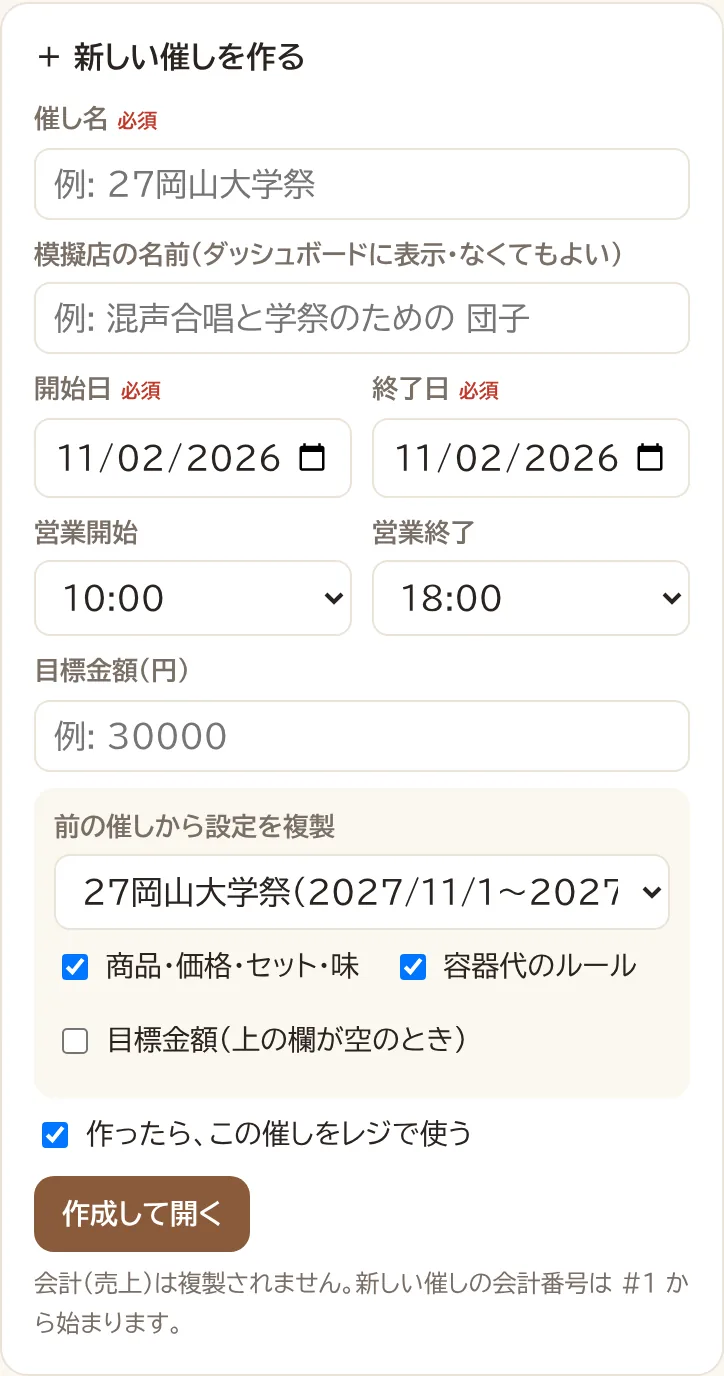
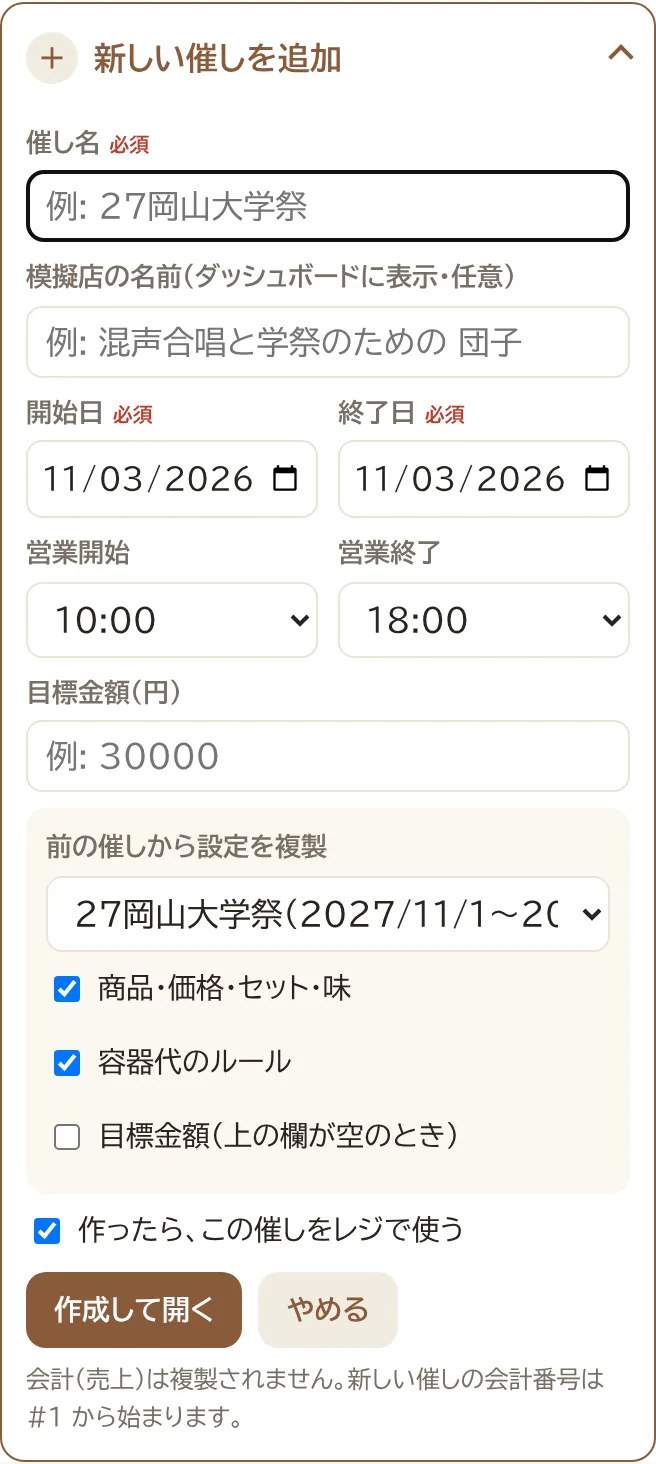
管理画面：「新しい催しを追加」を催しの一覧のカードの中の行にし、押すと入力欄が開くように
- 別のカードだった「新しい催しを作る」を、催しの一覧のいちばん下の行「＋ 新しい催しを追加」に
- 押すとその下に入力欄（催し名・期間・営業時間・目標・複製）が開き、「やめる」で閉じる。催しがまだないときは最初から開く
- 自動更新（30 秒ごと）で開いた状態や入力が消えないことを確認
- スマホで日付の年が切れないよう日付の欄を調整、ラベルを短く
- ヘルプの画像と説明、README を更新

Claude-Session: https://claude.ai/code/session_01UZ9qf5JxoP9bu9V8PunLta

diff --git a/public/master.html b/public/master.html
@@ -73,6 +73,15 @@
   .pj-wide { grid-column: 1 / -1; }
   .pj-grid input, .pj-grid select, .pj-line input, .pj-line select { padding: 9px; font-size: 16px; border: 1px solid var(--line); border-radius: 8px; color: var(--ink); background: #fff; font-weight: 400; width: 100%; min-width: 0; }
   .req { font-size: 10px; color: var(--red); font-weight: 700; }
+  .pj-add { border: 1.5px dashed var(--line); border-radius: 12px; margin-bottom: 10px; }
+  .pj-add.open { border-style: solid; border-color: var(--brown); }
+  .pj-add-row { display: flex; align-items: center; gap: 8px; width: 100%; background: none; padding: 14px 12px; font-size: 16px; font-weight: 700; color: var(--brown); text-align: left; }
+  .pj-add-row .plus { display: inline-grid; place-items: center; width: 26px; height: 26px; border-radius: 50%; background: var(--soft); font-size: 16px; }
+  .pj-add-row .chev { margin-left: auto; width: 9px; height: 9px; border-right: 2px solid currentColor; border-bottom: 2px solid currentColor; transform: rotate(45deg); transition: transform .2s; }
+  .pj-add.open .pj-add-row .chev { transform: rotate(-135deg); }
+  .pj-add-form { padding: 0 12px 12px; }
+  .pj-grid input[type=date] { padding: 9px 6px; font-size: 15px; }   /* スマホでも年まで見えるように */
+  .pj-add-btns { display: flex; gap: 8px; }
   .pj-copy { background: var(--bg); border-radius: 10px; padding: 10px; margin-bottom: 8px; }
   .pj-copy .pj-line { margin-bottom: 0; }
   .pj-check { display: flex; gap: 6px; align-items: center; font-size: 14px; margin: 4px 0 10px; }
@@ -111,14 +120,13 @@
   <section class="card">
     <h2>催しの一覧</h2>
     <div id="projectList"></div>
-    <div class="note">「開く」で、その催しの商品・価格・目標などを設定する画面に入ります。レジ・キッチン・ダッシュボードで使われるのは「レジで使用中」の催しだけです。</div>
-  </section>
-
-  <section class="card" id="newProjectCard">
-    <h2>＋ 新しい催しを作る</h2>
+    <!-- 新しい催しを追加：押すと、この下に入力欄が開く -->
+    <div class="pj-add" id="newProjectCard">
+      <button class="pj-add-row" id="npToggle" type="button" aria-expanded="false" aria-controls="npForm"><span class="plus" aria-hidden="true">＋</span>新しい催しを追加<span class="chev" aria-hidden="true"></span></button>
+      <div class="pj-add-form" id="npForm" hidden>
       <div class="pj-grid">
         <label class="pj-wide"><span class="lb">催し名 <span class="req">必須</span></span><input id="npName" type="text" maxlength="40" placeholder="例: 27岡山大学祭"></label>
-        <label class="pj-wide"><span class="lb">模擬店の名前（ダッシュボードに表示・なくてもよい）</span><input id="npShop" type="text" maxlength="40" placeholder="例: 混声合唱と学祭のための 団子"></label>
+        <label class="pj-wide"><span class="lb">模擬店の名前（ダッシュボードに表示・任意）</span><input id="npShop" type="text" maxlength="40" placeholder="例: 混声合唱と学祭のための 団子"></label>
         <label><span class="lb">開始日 <span class="req">必須</span></span><input id="npStart" type="date"></label>
         <label><span class="lb">終了日 <span class="req">必須</span></span><input id="npEnd" type="date"></label>
         <label><span class="lb">営業開始</span><select id="npOpen"><option value="0">0:00</option><option value="1">1:00</option><option value="2">2:00</option><option value="3">3:00</option><option value="4">4:00</option><option value="5">5:00</option><option value="6">6:00</option><option value="7">7:00</option><option value="8">8:00</option><option value="9">9:00</option><option value="10">10:00</option><option value="11">11:00</option><option value="12">12:00</option><option value="13">13:00</option><option value="14">14:00</option><option value="15">15:00</option><option value="16">16:00</option><option value="17">17:00</option><option value="18">18:00</option><option value="19">19:00</option><option value="20">20:00</option><option value="21">21:00</option><option value="22">22:00</option><option value="23">23:00</option></select></label>
@@ -136,9 +144,13 @@
         </div>
       </div>
       <label class="pj-check"><input type="checkbox" id="npActivate" checked> 作ったら、この催しをレジで使う</label>
-      <button class="btn" id="npBtn">作成して開く</button>
+      <div class="pj-add-btns"><button class="btn" id="npBtn">作成して開く</button><button class="btn sub" id="npCancel" type="button">やめる</button></div>
       <div class="note">会計（売上）は複製されません。新しい催しの会計番号は #1 から始まります。</div>
+      </div>
+    </div>
+    <div class="note">「開く」で、その催しの商品・価格・目標などを設定する画面に入ります。レジ・キッチン・ダッシュボードで使われるのは「レジで使用中」の催しだけです。</div>
   </section>
+
 
   <button class="btn sub" id="logoutBtn2">ログアウト</button>
 </div>
@@ -162,7 +174,7 @@
       <summary><h2 style="display:inline">催しの設定</h2> <span class="note" id="pjSummary"></span></summary>
       <div class="pj-grid">
         <label class="pj-wide"><span class="lb">催し名 <span class="req">必須</span></span><input id="psName" type="text" maxlength="40" placeholder="例: 27岡山大学祭"></label>
-        <label class="pj-wide"><span class="lb">模擬店の名前（ダッシュボードに表示・なくてもよい）</span><input id="psShop" type="text" maxlength="40" placeholder="例: 混声合唱と学祭のための 団子"></label>
+        <label class="pj-wide"><span class="lb">模擬店の名前（ダッシュボードに表示・任意）</span><input id="psShop" type="text" maxlength="40" placeholder="例: 混声合唱と学祭のための 団子"></label>
         <label><span class="lb">開始日 <span class="req">必須</span></span><input id="psStart" type="date"></label>
         <label><span class="lb">終了日 <span class="req">必須</span></span><input id="psEnd" type="date"></label>
         <label><span class="lb">営業開始</span><select id="psOpen"><option value="0">0:00</option><option value="1">1:00</option><option value="2">2:00</option><option value="3">3:00</option><option value="4">4:00</option><option value="5">5:00</option><option value="6">6:00</option><option value="7">7:00</option><option value="8">8:00</option><option value="9">9:00</option><option value="10">10:00</option><option value="11">11:00</option><option value="12">12:00</option><option value="13">13:00</option><option value="14">14:00</option><option value="15">15:00</option><option value="16">16:00</option><option value="17">17:00</option><option value="18">18:00</option><option value="19">19:00</option><option value="20">20:00</option><option value="21">21:00</option><option value="22">22:00</option><option value="23">23:00</option></select></label>
@@ -303,15 +315,15 @@
 
   <details>
     <summary>催しとは？</summary>
-    <figure class="narrow"><img src="/help/master-projects.webp" width="390" height="483" loading="lazy" alt="催しの一覧。27岡山大学祭と、レジで使用中の26岡山大学祭。それぞれ期間・営業時間・売上・目標・商品の数と、開く・レジで使うのボタン"></figure>
+    <figure class="narrow"><img src="/help/master-projects.webp" width="390" height="681" loading="lazy" alt="催しの一覧。27岡山大学祭と、レジで使用中の26岡山大学祭。それぞれ期間・営業時間・売上・目標・商品の数と、開く・レジで使うのボタン。いちばん下に「新しい催しを追加」の行"></figure>
     <p>「26岡山大学祭」「27岡山大学祭」のような、模擬店を出す1回ごとのまとまりです。催しごとに、商品・価格・味・セット、目標金額、容器代のルール、営業時間、会計（売上）が別々に記録されます。会計番号（#）も催しごとに #1 から始まります。</p>
     <p>レジ・キッチン・ダッシュボード・会計の一覧で使われるのは、<b>「レジで使用中」の催し1つだけ</b>です。前の催しの売上や商品は、催しを切り替えても消えずに残ります。</p>
   </details>
 
   <details>
     <summary>新しい催しを作る（次の学祭の準備）</summary>
-    <figure class="narrow"><img src="/help/master-newproject.webp" width="362" height="688" loading="lazy" alt="新しい催しを作るフォーム。催し名、模擬店の名前、開始日、終了日、営業開始、営業終了、目標金額、前の催しから設定を複製と複製する内容のチェック、作ったらこの催しをレジで使うのチェック、作成して開くボタン"></figure>
-    <p>催しの一覧の下の「＋ 新しい催しを作る」で、催し名・開始日・終了日・営業時間を入れて「作成して開く」を押します。模擬店の名前（例：混声合唱と学祭のための 団子）を入れると、ダッシュボードに表示されます。</p>
+    <figure class="narrow"><img src="/help/master-newproject.webp" width="328" height="732" loading="lazy" alt="「新しい催しを追加」を押して開いた入力欄。催し名、模擬店の名前、開始日、終了日、営業開始、営業終了、目標金額、前の催しから設定を複製と複製する内容のチェック、作ったらこの催しをレジで使うのチェック、作成して開くボタン"></figure>
+    <p>催しの一覧のいちばん下の「＋ 新しい催しを追加」を押すと、入力欄が開きます。催し名・開始日・終了日・営業時間を入れて「作成して開く」を押します（「やめる」で閉じます）。模擬店の名前（例：混声合唱と学祭のための 団子）を入れると、ダッシュボードに表示されます。</p>
     <p><b>前の催しから設定を複製</b>で前の催しを選ぶと、商品・価格・セット・味と容器代のルールをそのまま引き継げます（目標金額も選べます）。売上は複製されません。複製したあとで、値段や味を今年の分に直してください。</p>
     <p>「作ったら、この催しをレジで使う」を外しておくと、今の催しの営業を続けたまま、次の催しの準備だけできます。</p>
   </details>
@@ -740,8 +752,19 @@
       $('npClose').value = latest ? latest.closeHour : 19;
       if (latest) sel.value = String(latest.id);
       syncCopyWhat();
+      setAddOpen(!d.projects.length);   // 催しがまだないときは最初から開いておく
     }
   }
+  // 「新しい催しを追加」の行：押すと入力欄を開く／閉じる
+  function setAddOpen(open) {
+    $('npForm').hidden = !open;
+    $('newProjectCard').classList.toggle('open', open);
+    $('npToggle').setAttribute('aria-expanded', open);
+    if (open) setTimeout(() => $('npName').focus(), 50);
+  }
+  $('npToggle').onclick = () => setAddOpen($('npForm').hidden);
+  $('npCancel').onclick = () => setAddOpen(false);
+
   function syncCopyWhat() { $('npCopyWhat').classList.toggle('hidden', !$('npFrom').value); }
   $('npFrom').onchange = syncCopyWhat;
   const readFields = prefix => ({

diff --git a/README.md b/README.md
@@ -33,7 +33,7 @@
 
 - 管理画面にログインすると、まず **催しの一覧** が出ます。催しを「開く」と、いつもの管理画面（商品・価格・味・目標・容器代など）に入ります
 - 催しごとに持つもの: **催し名、模擬店の名前（ダッシュボードに表示）、開催期間（開始日〜終了日）、営業時間、目標金額、容器代のルール、商品・価格・セット・味、営業終了の状態、会計（売上）**
-- **新しい催しを作る**: 催し名・期間・営業時間などを入れて作成。**前の催しから設定を複製**（商品・価格・セット・味／容器代のルール／目標金額を選べる。売上は複製しない）
+- **新しい催しを作る**: 催しの一覧のいちばん下の「＋ 新しい催しを追加」を押すと入力欄が開く。催し名・期間・営業時間などを入れて作成。**前の催しから設定を複製**（商品・価格・セット・味／容器代のルール／目標金額を選べる。売上は複製しない）
 - レジ・キッチン・ダッシュボード・会計の一覧で使うのは **「レジで使用中」の催し 1 つ**。管理画面の「レジで使う」で切り替え、レジは 30 秒ほどで新しい催しの商品に切り替わる
 - **会計番号（#）は催しごとに #1 から**。CSV・売上記録の全リセットも催しごと
 - 切り替え前にレジで打ってまだ送れていない会計（オフライン）は、あとで届いても **打ったときの催し** に記録される（会計に催しの番号を付けて送るため）
